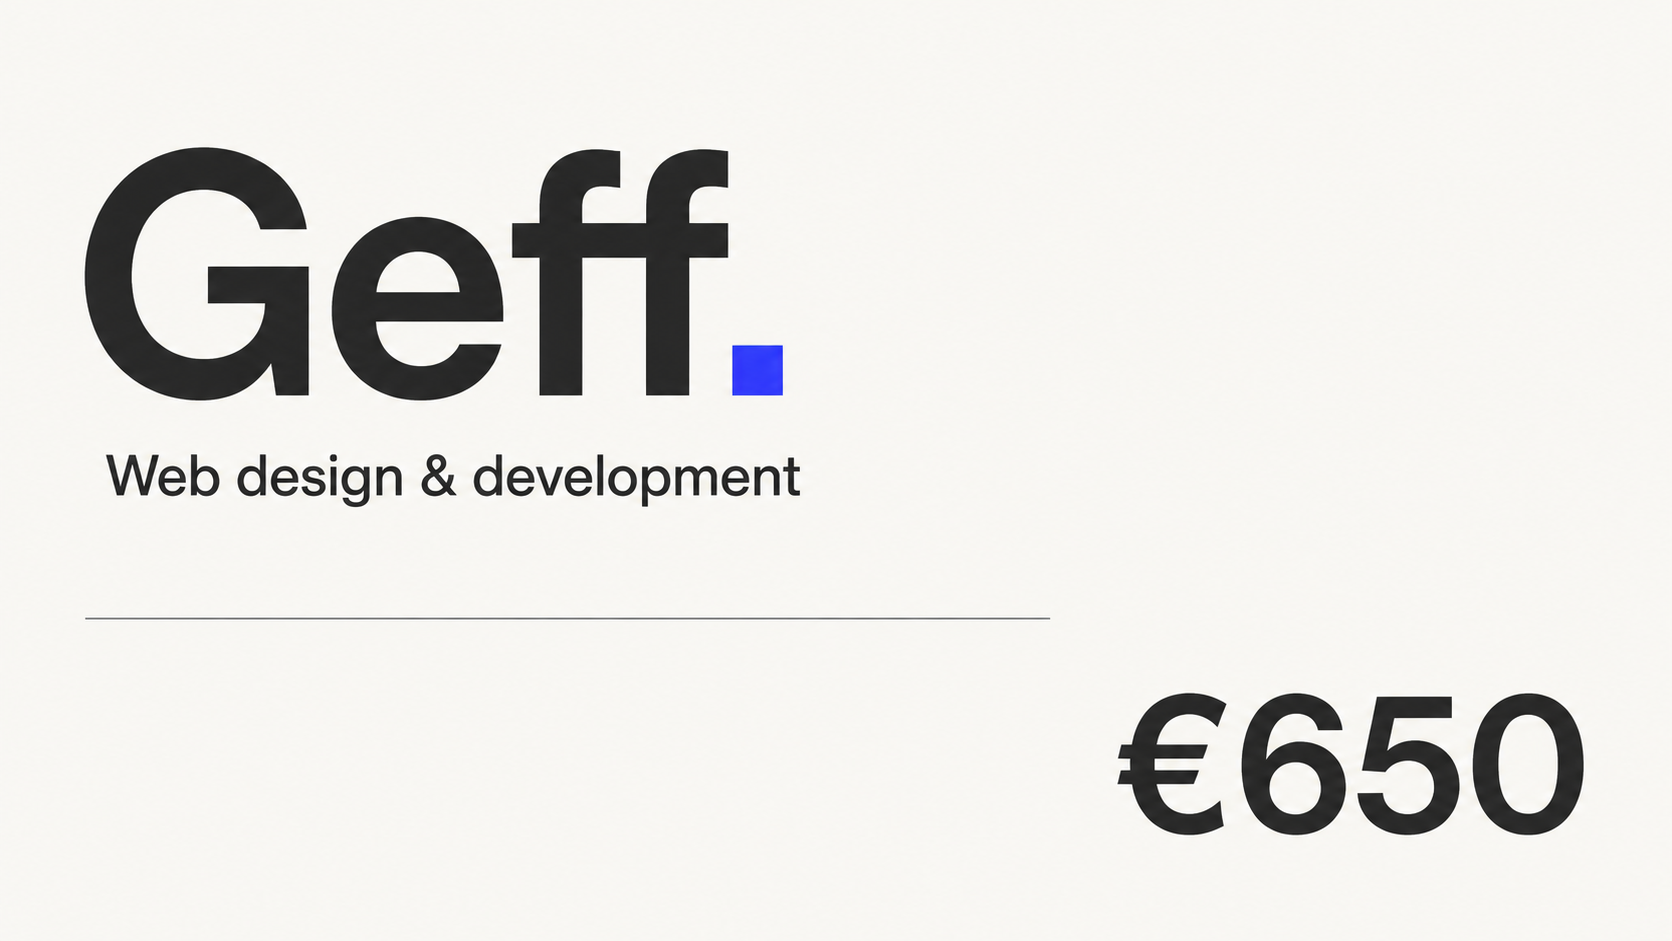
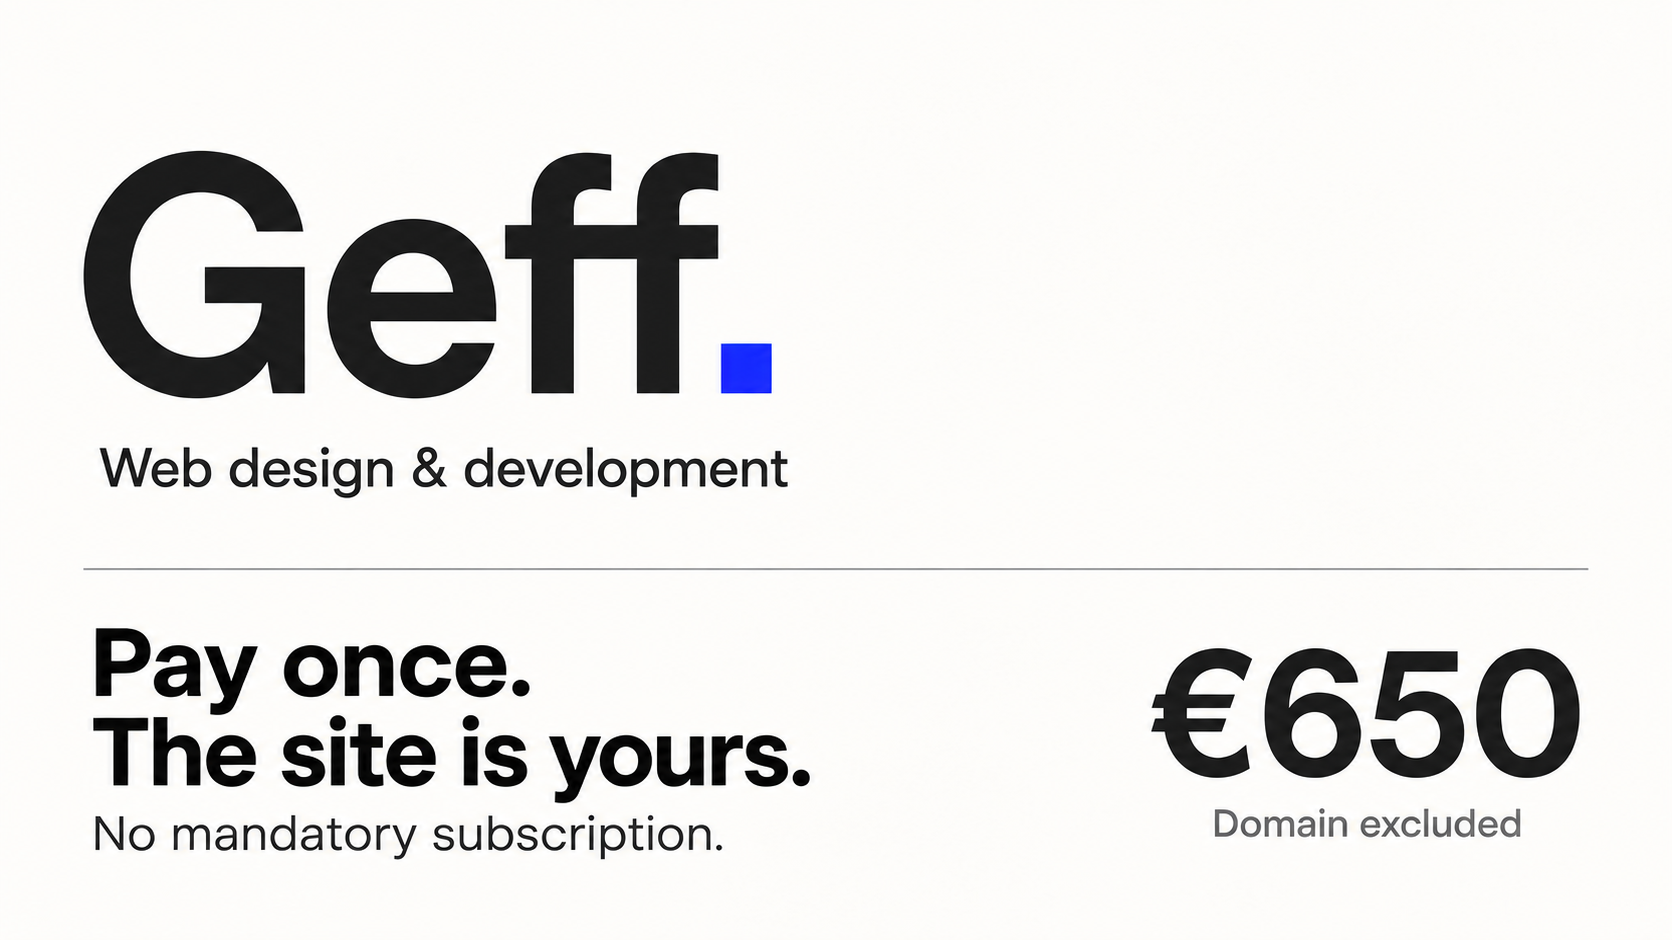
Clarify one-time pricing in social preview cards

diff --git a/app/[locale]/layout.tsx b/app/[locale]/layout.tsx
@@ -35,14 +35,14 @@ const metadataCopy = {
     title: "Geff - Design e sviluppo di siti web",
     description:
       "Siti web chiari, veloci e curati per piccole attività: €650, fino a 5 pagine anche in italiano e inglese. Design, testi e pubblicazione seguiti da Geff.",
-    imageAlt: "Geff. — Web design & development. €650.",
+    imageAlt: "Geff. — €650. Una volta sola. Il sito è tuo. Nessun abbonamento obbligatorio. Dominio escluso.",
     openGraphLocale: "it_IT",
   },
   en: {
     title: "Geff - Website design and development",
     description:
       "Clear, fast and polished websites for small businesses: €650 for up to 5 pages, including Italian and English. Design, copy and launch handled by Geff.",
-    imageAlt: "Geff. — Web design & development. €650.",
+    imageAlt: "Geff. — €650. Pay once. The site is yours. No mandatory subscription. Domain excluded.",
     openGraphLocale: "en_GB",
   },
 } satisfies Record<Locale, {
@@ -78,7 +78,7 @@ export async function generateMetadata({
   const protocol = forwardedProtocol ?? (host.startsWith("localhost") ? "http" : "https");
   const origin = `${protocol}://${host}`;
   const canonicalUrl = `${siteUrl}/${locale}`;
-  const socialImage = `${origin}/${locale === "it" ? "og.png?v=7" : "og-en.png?v=3"}`;
+  const socialImage = `${origin}/${locale === "it" ? "og.png?v=8" : "og-en.png?v=4"}`;
 
   return {
     metadataBase: new URL(siteUrl),
@@ -107,7 +107,7 @@ export async function generateMetadata({
       images: [{
         url: socialImage,
         width: 1672,
-        height: 941,
+        height: 940,
         alt: copy.imageAlt,
       }],
     },
